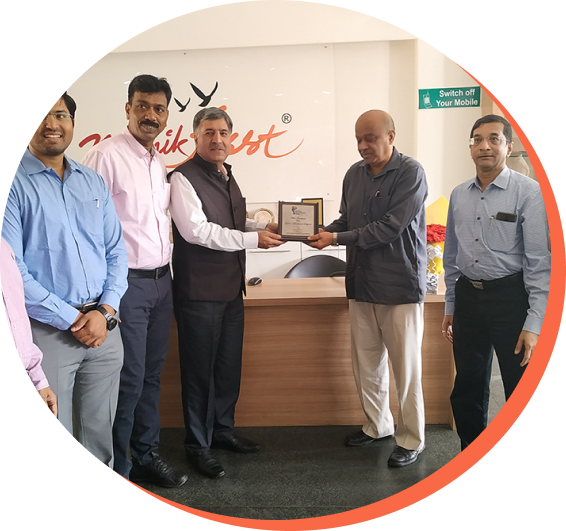
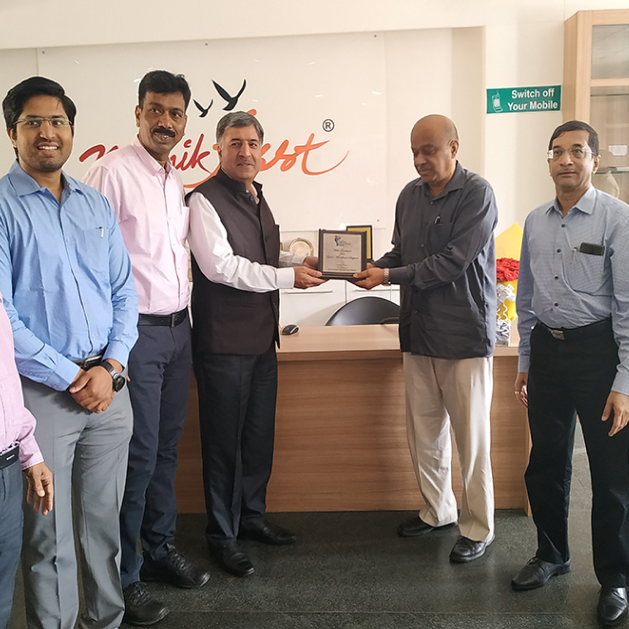
changes

diff --git a/src/ScreenComponents/EventsComponents/Pastevents.jsx b/src/ScreenComponents/EventsComponents/Pastevents.jsx
@@ -13,20 +13,25 @@ import event8 from "../../Assets/Assets/Pastevents/event8.png"
 import event9 from "../../Assets/Assets/Pastevents/event9.png"
 
 const specialEvents = [
-  event1, event2, event3
+  event8, event2, event3
 ];
 
 const eventGallery = [
-  event4, event5, event6, event7, event8, event9
+  event4, event5, event6, event7, event1, event9
 ];
 
 const Pastevents = () => {
 
   const [show, setShow] = useState(false);
+  const [id, setId] = useState();
 
   const handleClose = () => setShow(false);
   const handleShow = () => setShow(true);
 
+  const handleShowFunc = (id) =>{
+    handleShow()
+    setId(id)
+  }
   return (
     <>
       <Container fluid className='p-0'>
@@ -38,7 +43,7 @@ const Pastevents = () => {
         <Row className='mx-5'>
           {specialEvents.map((event, index) => (
             <Col xs={12} sm={6} md={4} key={index} className='mb-2'> {/* Reduced the margin-bottom */}
-              <img src={event} className='events img-fluid' alt={`Event ${index + 1}`} />
+              <img src={event} className='events img-fluid' alt={` Event ${index + 1}`} />
             </Col>
           ))}
         </Row>
@@ -50,17 +55,15 @@ const Pastevents = () => {
           {eventGallery.map((event, index) => (
             <>
               <Col xs={12} sm={6} md={4} key={index} className={index >= 3 ? 'mt-3 mb-2' : 'mb-2'}> {/* Reduced the margin-top and margin-bottom */}
-                <img src={event} onClick={handleShow} className='events img-fluid' alt={`Event Gallery ${index + 1}`} />
+                <img src={event} onClick={()=>handleShowFunc(index)} className='events img-fluid' alt={`Event Gallery ${index + 1}`} />
               </Col>
-              <Modal size="lg" show={show} onHide={handleClose}>
-
-                <Modal.Body>
-                  <img src={event} className=' img-fluid' alt={`Event Gallery ${index + 1}`} />
-                </Modal.Body>
-
-              </Modal>
             </>
           ))}
+              <Modal size="md" show={show} onHide={handleClose}>
+                <Modal.Body>
+                  <img src={eventGallery[id]} className=' img-fluid' alt={`Event Gallery `} />
+                </Modal.Body>
+              </Modal>
         </Row>
       </Container>
     </>

diff --git a/src/ScreenComponents/Vission.jsx b/src/ScreenComponents/Vission.jsx
@@ -30,19 +30,19 @@ const Vission = () => {
             </Col>
             <Col md={6}  className='mt-md-3 mt-xl-4 d-none d-md-block  position-relative '>
               <div className='d-flex '>
-                <div className='d-flex flex-column align-items-center mx-md-3 mx-xl-3'>
+                <div className='d-flex flex-column align-items-center  mx-xl-3'>
                   <img src={v1} className='missionimg ' />
                   <p className='imgtext'>Clean</p>
                 </div>
-                <div className='d-flex flex-column align-items-center mx-md-3 mx-xl-3'>
+                <div className='d-flex flex-column align-items-center  mx-xl-3'>
                   <img src={v2} className='missionimg' />
                   <p className='imgtext'>Green</p>
                 </div>
-                <div className='d-flex flex-column align-items-center mx-md-3 mx-xl-3'>
+                <div className='d-flex flex-column align-items-center  mx-xl-3'>
                   <img src={v3} className='missionimg' />
                   <p className='imgtext'>Safe</p>
                 </div>
-                <div className='d-flex flex-column align-items-center mx-md-3 mx-xl-2'>
+                <div className='d-flex flex-column align-items-center  mx-xl-2'>
                   <img src={v4} className='missionimg' />
                   <p className='imgtext'>Econoically Developed</p>
                 </div>
@@ -64,9 +64,9 @@ const Vission = () => {
       <Container fluid className=' p-0'>
         <Container fluid className=' mbg'>
           <Row className='justify-content-center  '>
-            <Col md={6}className=' mt-md-3 mt-xl-3 d-none d-md-block  '>
+            <Col md={6} className=' mt-md-3 mt-xl-3 d-none d-md-block  '>
               <div className='d-flex  justify-content-center'>
-                <div className='d-flex flex-column align-items-center mx-md-3 mx-xl-3'>
+                <div className='d-flex flex-column align-items-center mx-md-2 mx-xl-3'>
                   <img src={m1} className='missionimg  ' />
                   <p className='imgtext'>Quality of life</p>
                 </div>

diff --git a/src/ScreenComponents/HomeComponents/Youtube.jsx b/src/ScreenComponents/HomeComponents/Youtube.jsx
@@ -28,7 +28,7 @@ const Youtube = () => {
               {/* <iframe  src="https://www.youtube.com/embed/0j3X0OaHZro" title="Nashik First" frameborder="0" allow="accelerometer; autoplay; clipboard-write; encrypted-media; gyroscope; picture-in-picture; web-share" referrerpolicy="strict-origin-when-cross-origin" allowfullscreen></iframe> */}
               <iframe
                 className='w-100 rounded-3'
-                style={{ height: "250px" }}
+                style={{ height: "280px" }}
                 src="https://www.youtube.com/embed/0j3X0OaHZro?si=t2WYHPkpWYBFX8vJ"
                 title="YouTube video player"
                 frameBorder="0"
@@ -43,7 +43,7 @@ const Youtube = () => {
               {/* <iframe className='w-100 rounded-3' style={{ height: "250px" }} src="https://www.youtube.com/embed/vmFT7ial_pM?si=i3FjXT_G2EJu5adj" title="YouTube video player" frameborder="0" allow="accelerometer; autoplay; clipboard-write; encrypted-media; gyroscope; picture-in-picture; web-share" referrerpolicy="strict-origin-when-cross-origin" allowfullscreen></iframe> */}
               <iframe
                 className='w-100 rounded-3'
-                style={{ height: "250px" }}
+                style={{ height: "280px" }}
                 src="https://www.youtube.com/embed/WpJFmvsVRW4?si=PrUTE-V6c8E2ZAh0"
                 title="YouTube video player"
                 frameBorder="0"

diff --git a/src/ScreenComponents/VideoComponents/Videolinks.jsx b/src/ScreenComponents/VideoComponents/Videolinks.jsx
@@ -25,8 +25,8 @@ const Youtube = () => {
           <Col xs={12} md={6} className='mb-4'>
           <iframe
               className="w-100 rounded-3"
-              style={{ height: "250px" }}
-              src="https://www.youtube.com/embed/GCQnntHWj5s?si=orzUJ3jia6vl6Saz"
+              style={{ height: "280px" }}
+              src="https://youtube.com/embed/RmJXd5fviBA?si=fr_USawDTQrd7jmd"
               title="YouTube video player"
               frameBorder="0"
               allow="accelerometer; autoplay; clipboard-write; encrypted-media; gyroscope; picture-in-picture; web-share"
@@ -39,7 +39,7 @@ const Youtube = () => {
           <Col xs={12} md={6} className='mb-4'>
             <iframe
               className="w-100 rounded-3"
-              style={{ height: "250px" }}
+              style={{ height: "280px" }}
               src="https://www.youtube.com/embed/GCQnntHWj5s?si=orzUJ3jia6vl6Saz"
               title="YouTube video player"
               frameBorder="0"

diff --git a/src/Components/Foundation.css b/src/Components/Foundation.css
@@ -10,10 +10,11 @@
 
 }
 
-@media (max-width: 576px) {
+
+@media (max-width: 900px) {
     .Fheadline
      {
-        font-size: 30px !important;
+        font-size: 35px !important;
         text-align: start;
         /* margin: 15px !important; */
         line-height: 1.1 !important;

diff --git a/src/Components/Pastevents.css b/src/Components/Pastevents.css
@@ -22,8 +22,8 @@
 }
 
 .events{
-    width: 400px;
-    
+    /* width: 400px; */
+    border-radius: 50%;
 }
 
 @media (max-width:768px) {

diff --git a/src/Components/Vision.css b/src/Components/Vision.css
@@ -53,6 +53,8 @@
     }
 }
 
+
+
 .mtext {
     color: white;
     font-family: 'Century Gothic Paneuropean', sans-serif;
